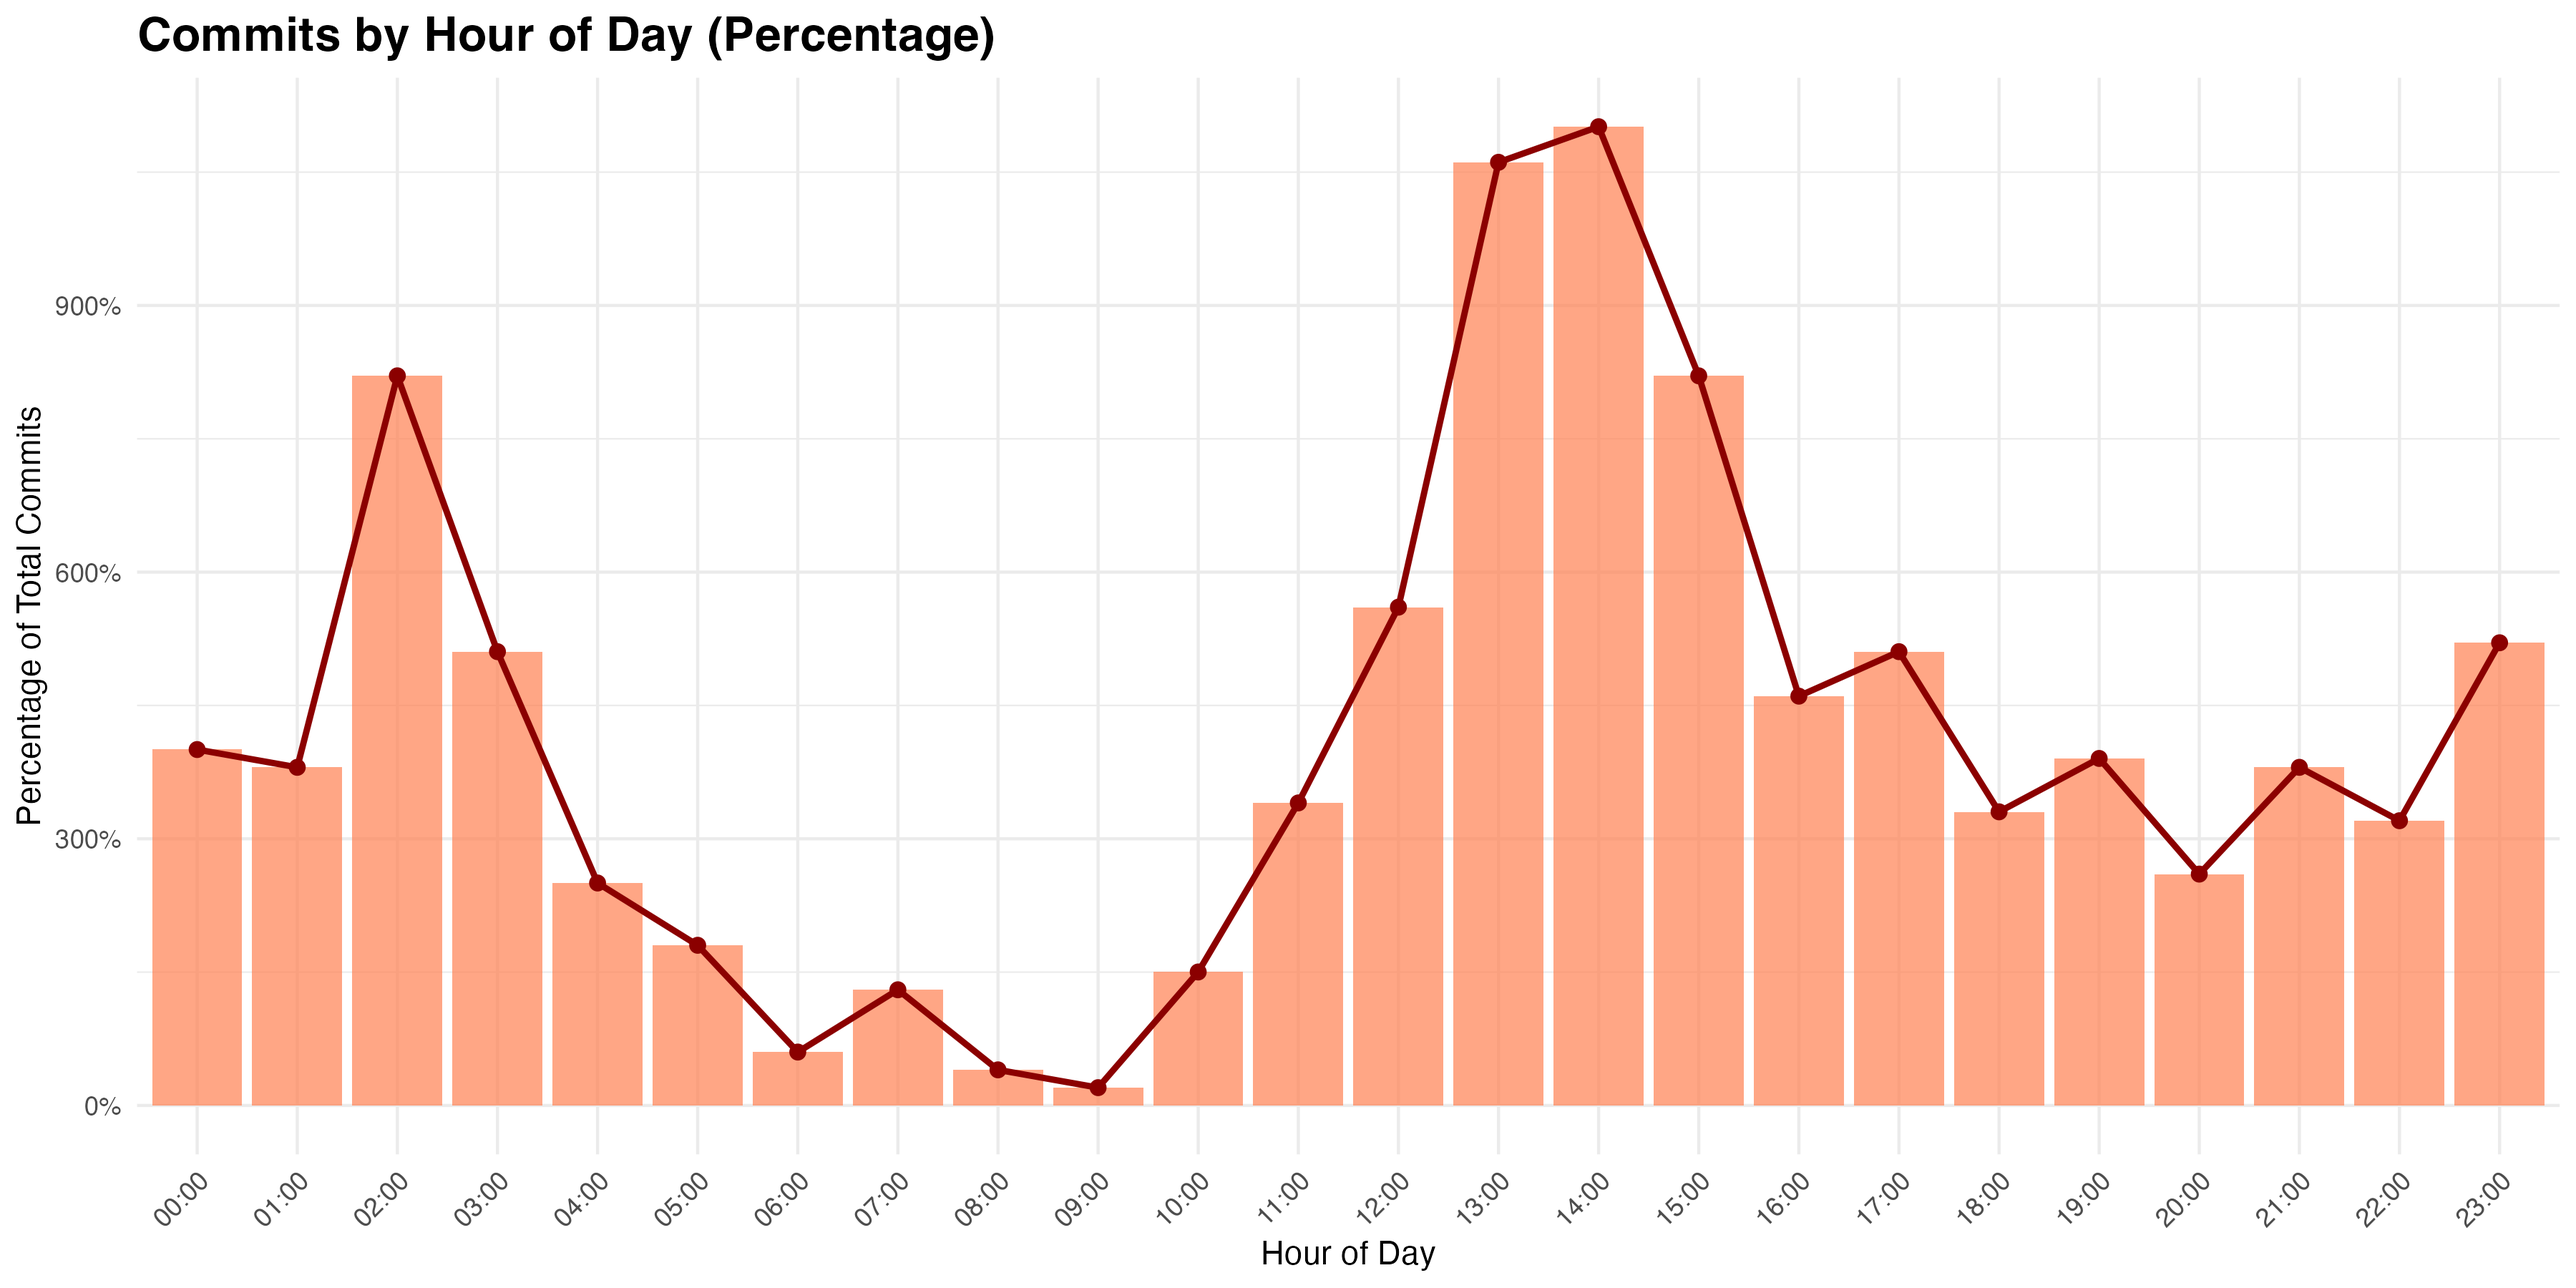
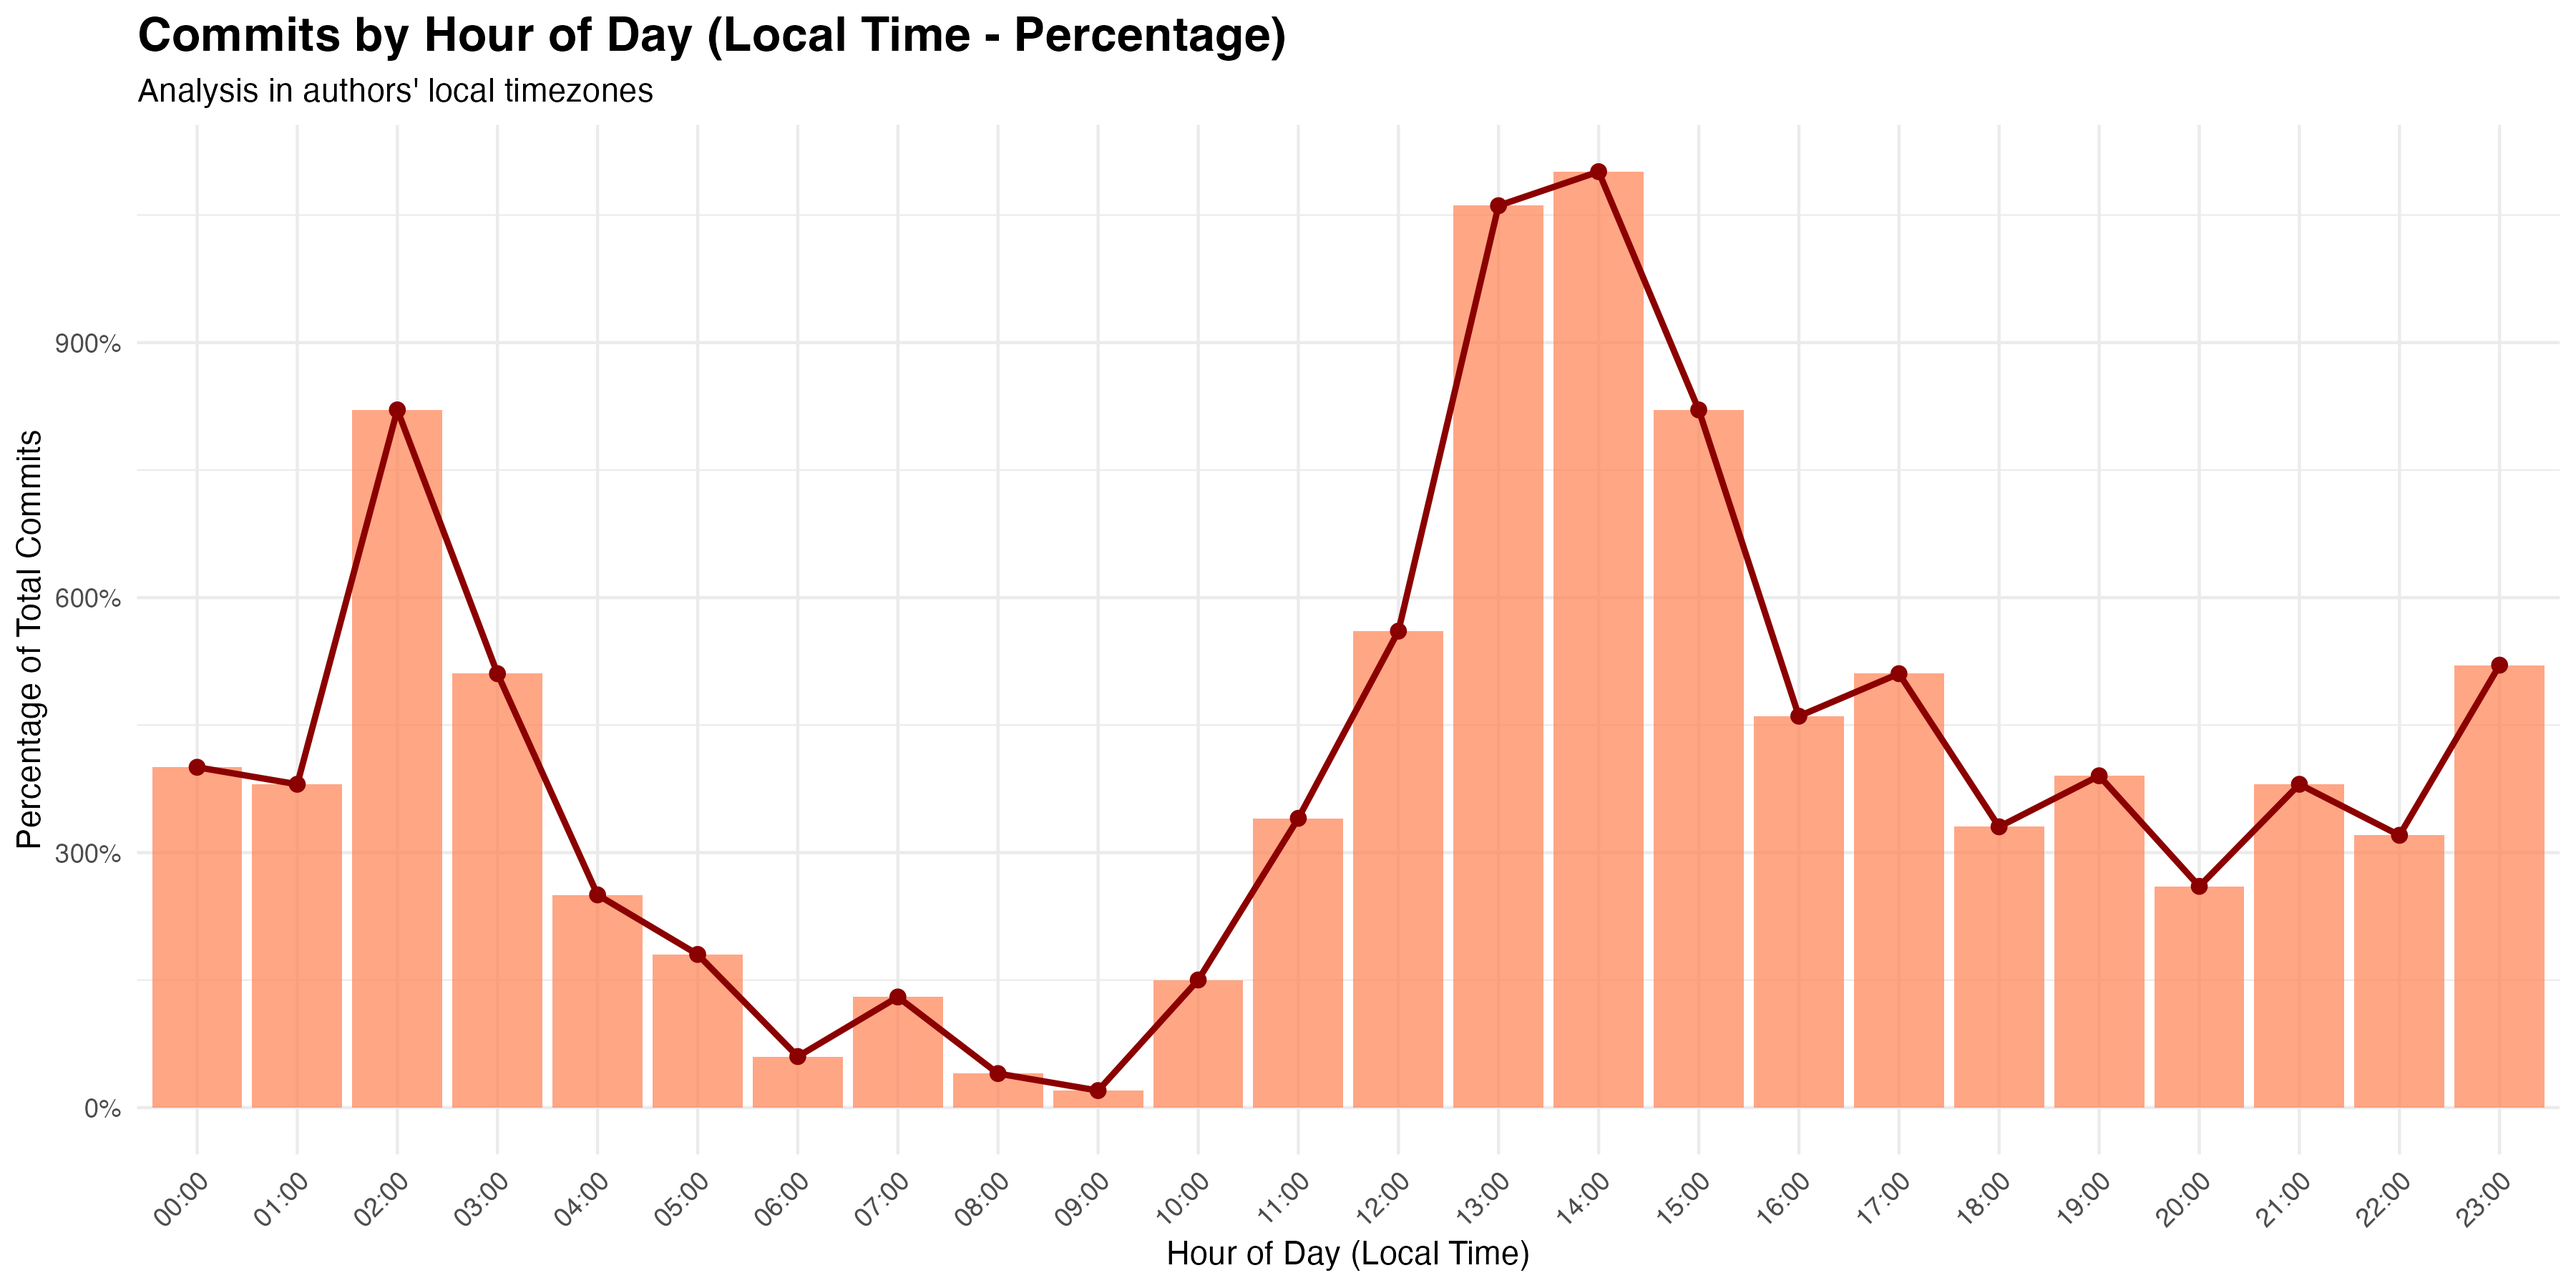
use local timezone

diff --git a/individuals/chicks/github/commits-analysis/README.md b/individuals/chicks/github/commits-analysis/README.md
@@ -2,25 +2,35 @@
 
 This directory contains R scripts and results for analyzing GitHub commit patterns by hour of the day.
 
+**Important:** All hours in this analysis are shown in **commit authors' local timezones**. The original commit data spans multiple timezones and is analyzed as-is to preserve the actual patterns of when people commit in their local time.
+
 ## Files
 
 - `analyze-commits-by-hour.R` - Main R analysis script
-- `commits-by-hour.png` - Bar chart showing commit frequency by hour
-- `commits-by-hour-percentage.png` - Percentage chart of commits by hour
-- `commits-by-time-period.png` - Grouped by morning/afternoon/evening/night
-- `hourly-commit-distribution.csv` - Raw hourly data
-- `time-period-distribution.csv` - Time period aggregated data
+- `commits-by-hour.png` - Bar chart showing commit frequency by hour (local time)
+- `commits-by-hour-percentage.png` - Percentage chart of commits by hour (local time)
+- `commits-by-time-period.png` - Grouped by morning/afternoon/evening/night (local time)
+- `hourly-commit-distribution.csv` - Raw hourly data (local time)
+- `time-period-distribution.csv` - Time period aggregated data (local time)
+- `timezone-distribution.csv` - Original timezone distribution of commits
 
 ## Key Findings
 
-Based on analysis of 999 commits:
+Based on analysis of 999 commits (all times in **UTC**):
 
-**Peak Hours:**
+**Timezone Distribution (original):**
+- PDT (-07:00): 56.1% of commits
+- EDT (-04:00): 18.0% of commits  
+- CDT (-05:00): 14.2% of commits
+- MDT (-08:00): 11.2% of commits
+- MDT (-06:00): 0.4% of commits
+
+**Peak Hours (Local Time):**
 - 2:00 PM (14:00): 110 commits (11.0%)
 - 1:00 PM (13:00): 106 commits (10.6%) 
 - 2:00 AM (02:00): 82 commits (8.2%)
 
-**Time Period Distribution:**
+**Time Period Distribution (Local Time):**
 - Afternoon (12pm-6pm): 45.1% of commits
 - Night (12am-6am): 25.4% of commits
 - Evening (6pm-12am): 22.0% of commits
